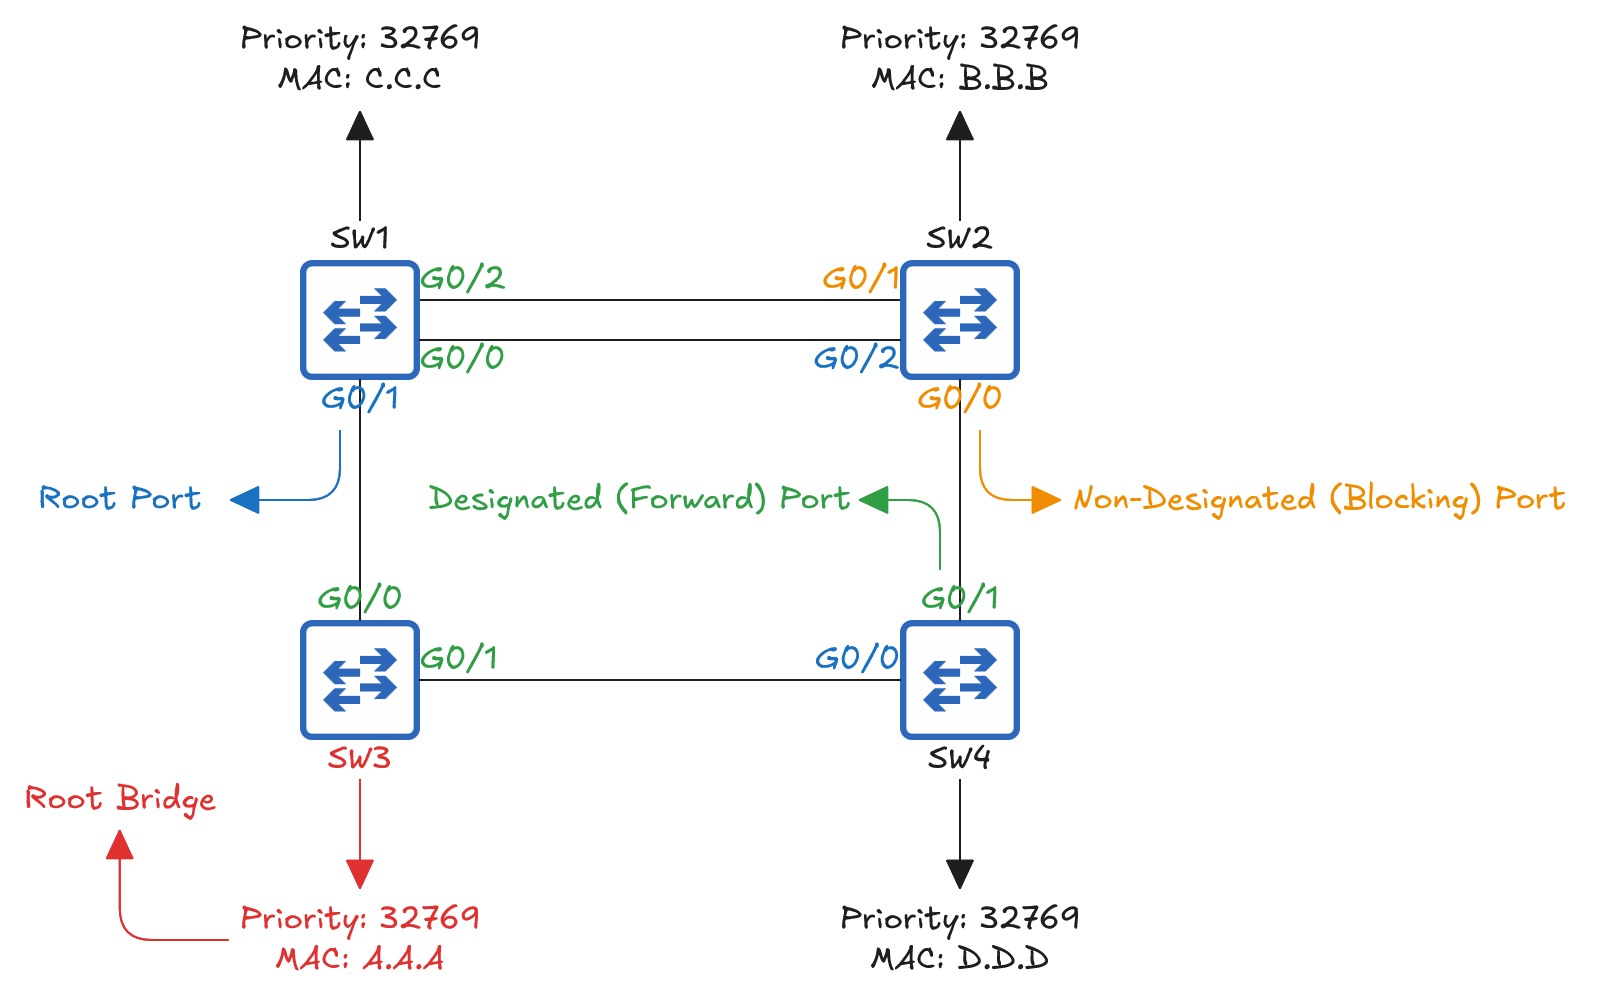
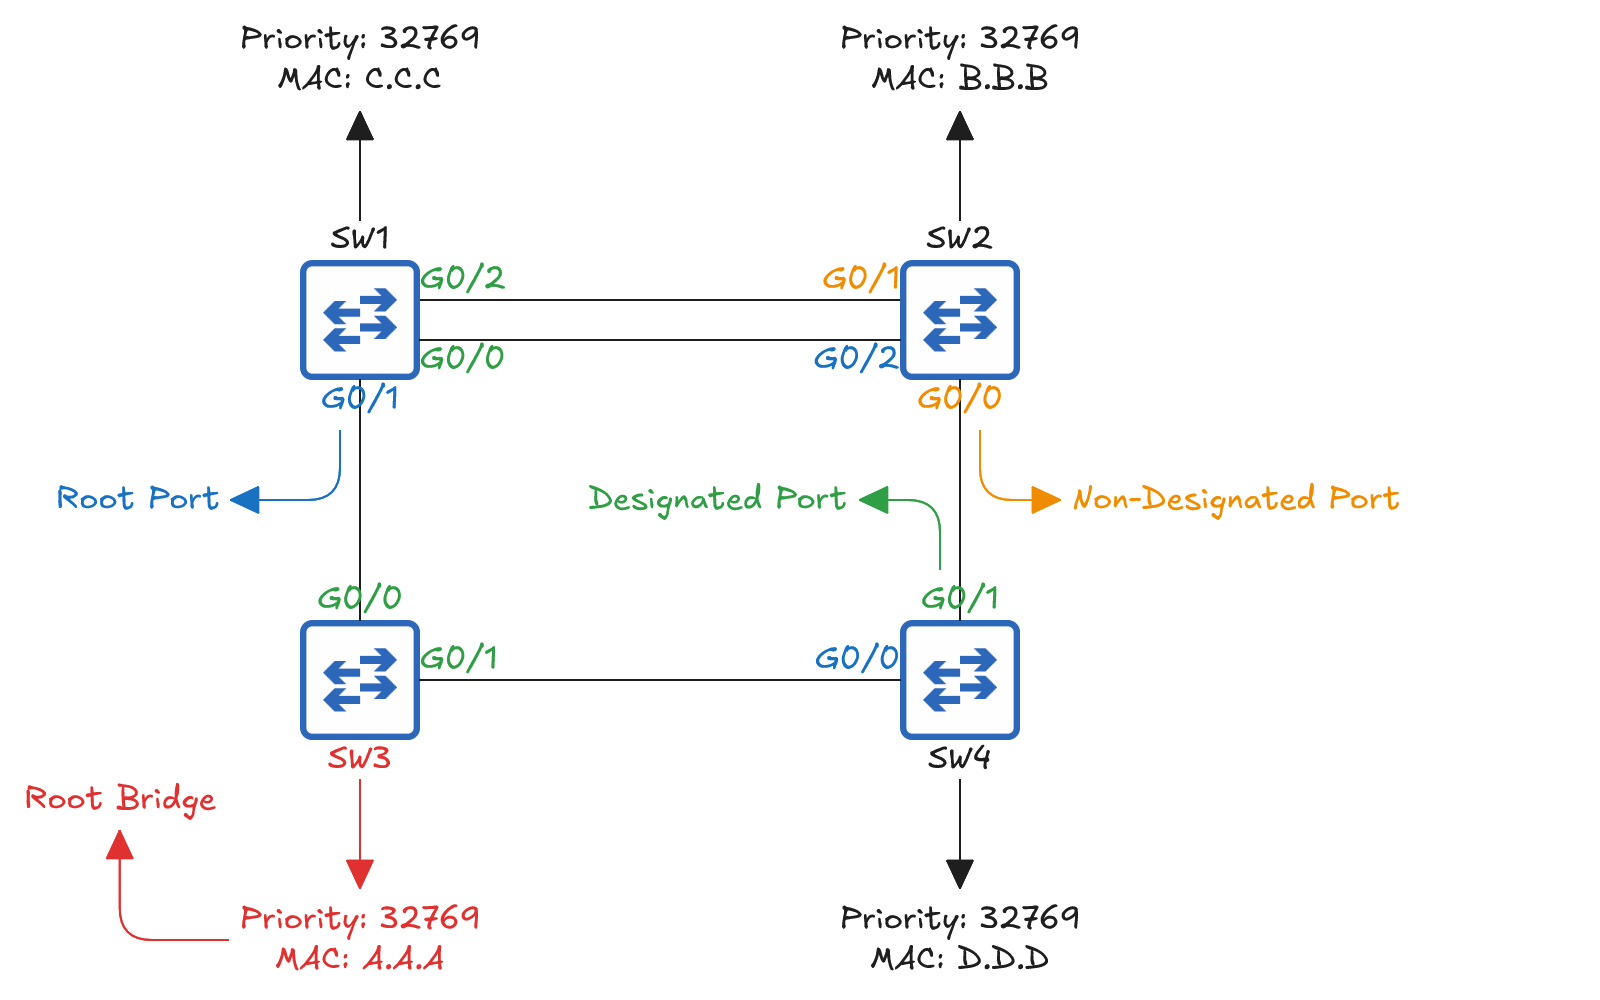
add rstp

Changed region(s): [[0.2812, 0.465, 0.5312, 0.527], [0.7188, 0.465, 0.9688, 0.527], [0.0312, 0.465, 0.125, 0.527]]

diff --git a/2.0 Network Access/2.2 Network Redundancy.md b/2.0 Network Access/2.2 Network Redundancy.md
@@ -134,6 +134,18 @@ Loop Guard protects against layer 2 loops caused by a **unidirectional link fail
 - Should be enabled on root and non-designated ports (ports that are supposed to receive BPUDs).
 - Meant to **prevent root and non-designated ports from becoming designated ports**.
 - Command `spanning-tree loopguard default` enables Loop Guard on all interfaces.
+#### UplinkFast
+UplinkFast provides faster recovery when a **switch's root port fails**.
+- The switch maintains **backup paths toward the root bridge**.
+- If the current root port fails, a **backup port can quickly become the new root port**.
+- The backup port transitions to **forwarding** state faster.
+- It is built into RSTP.
+#### BackboneFast
+BackboneFast provides faster recovery from **indirect link failures**. An indirect failure occurs when a switch loses its path to the root bridge, but its own direct link does not physically fail.
+- Helps a switch determine whether its current path to the root bridge is still valid.
+- Allows the switch to avoid waiting for the **max age timer** to expire.
+- Helps the switch quickly select a new path when the current path becomes invalid.
+- It is built into RSTP.
 ## BPDU (Bridge Protocol Data Unit)
 A BPDU is a layer 2 control frame used by STP-enabled switches to **exchange information about the network topology**.
 - Switches use BPDUs to identify layer 2 loops and build a loop-free topology.
@@ -164,12 +176,14 @@ The path cost is the value STP uses to determine the **best path from a switch t
 - A switch **adds the costs of all ports along a path to calculate the total path cost**.
 - On non-root switches, the port providing the **lowest-cost path to the root bridge is selected as the root port**.
 
-|  Speed   | STP Cost |
-| :------: | :------: |
-| 10 Mbps  |   100    |
-| 100 Mpbs |    19    |
-|  1 Gbps  |    4     |
-| 10 Gbps  |    2     |
+|  Speed   | STP Cost | RSTP Cost |
+| :------: | :------: | :-------: |
+| 10 Mbps  |   100    | 2,000,000 |
+| 100 Mpbs |    19    |  200,000  |
+|  1 Gbps  |    4     |  20,000   |
+| 10 Gbps  |    2     |   2000    |
+| 100 Gpbs |    X     |    200    |
+|  1 Tbps  |    X     |    20     |
 ### Port ID
 The port ID is an identifier that STP uses to **identify a specific switch port**. It is important when STP needs a **tie-breaker** between otherwise equal paths or ports.
 - Consists of port priority and port number.
@@ -181,3 +195,65 @@ STP load balancing is the practice of using different STP topologies for differe
 - Without load balancing, the same path may be used for all VLANs, **leaving other links underutilized**.
 - By configuring different root bridges for different VLANs, **different VLANs can use different paths**.
 - This **allows multiple links to actively forward traffic**, while still maintaining a loop-free topology.
+## RSTP (Rapid Spanning Tree Protocol)
+RSTP is an improved version of the classic STP that provides **faster network convergence** when topology changes occur.
+- Standardized as **IEEE 802.1w**.
+- Developed to improve the slow convergence of the classic STP (IEEE 802.1D).
+- Can transition eligible ports to forwarding state much faster than the classic STP.
+- Uses **fewer port states** and introduces **new port roles**.
+- Switches running RSTP send their own BPDUs.
+- In RSTP, a switch considers a neighbor lost **if it misses three consecutive BPDUs**. It then **flushes all MAC addresses** learned on that interface.
+### RSTP Port States
+RSTP (IEEE 802.1w) has **three port states**. RSTP simplifies the state machine to enable faster convergence while maintaining a loop-free topology.
+#### Discarding
+The port does not forward normal user traffic or learn MAC addresses.
+- Receives BPDUs.
+- Does not send/receive normal traffic.
+- Does not learn MAC addresses.
+- Helps prevent layer 2 loops.
+#### Learning
+The port learns MAC addresses but does not yet forward normal user traffic.
+- Receives and sends BPDUs.
+- Does not send/receive normal traffic **yet**.
+- **Learns MAC addresses**.
+- RSTP does not require the fixed 15-second listening and learning delays of the classic STP.
+#### Forwarding
+The port is **fully operational**.
+- Receives and sends BPDUs.
+- **Forwards normal traffic**.
+- Learns MAC addresses.
+
+| RSTP Port State | Send/Receive BPDUs | Frame Forwarding<br>(Normal Traffic) | MAC Address Learning | Stable/Transitional |
+| :-------------: | :----------------: | :----------------------------------: | :------------------: | :-----------------: |
+|   Discarding    |        ❌/✅         |                  ❌                   |          ❌           |       Stable        |
+|    Learning     |        ✅/✅         |                  ❌                   |          ✅           |    Transitional     |
+|   Forwarding    |        ✅/✅         |                  ✅                   |          ✅           |       Stable        |
+### RSTP Port Roles
+![RSTP Port Selection](../Attachments/Images/RSTP%20Port%20Selection.png)
+#### Root Port
+Same as the classic STP root port.
+#### Designated Port
+Same as the classic STP designated port.
+#### Alternate Port
+An alternate port **provides an alternate path toward the root bridge**.
+- It **provides a backup path** to the root bridge.
+- An alternate port is placed in the **discarding** state.
+- If the current root port fails, an **alternate port can rapidly transition to forwarding state and become the new root port**.
+#### Backup Port
+A backup port **provides a backup path to the same network segment** as a designated port.
+- It exists when a switch has multiple connections to the same collision domain through a hub.
+- A backup port is placed in the **discarding** state.
+- It is a backup for a designated port.
+- If the active designated port fails, the backup port can take over.
+### RSTP Link Types
+RSTP has **three link types**. The link type helps RSTP determine **how quickly a port can transition to forwarding**.
+#### Edge Link
+An edge link is a port **connected to an end host**.
+- Can transition directly to **forwarding** state.
+- Equivalent to PortFast in Cisco terminology.
+#### Point-to-Point Link
+A point-to-point link is a **connection between two switches**.
+- Operates in full-duplex mode.
+#### Shared Link
+A shared link is a connection between a switch and a hub.
+- Operates in half-duplex mode.
